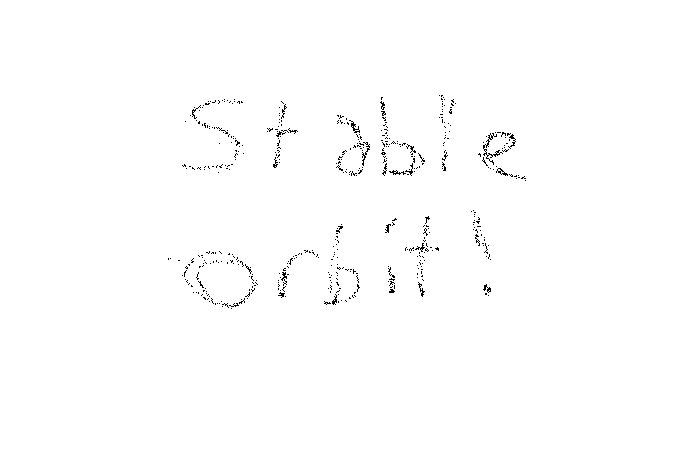
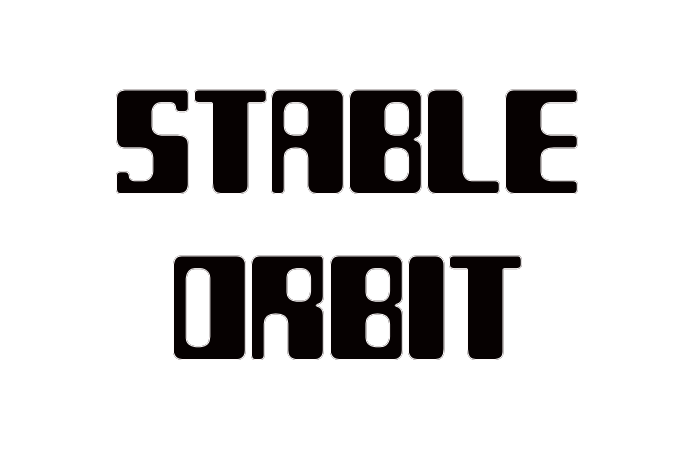
add intro, camera fix

Changed region(s): [[0.15, 0.1867, 0.84, 0.4356], [0.24, 0.5289, 0.75, 0.8089]]

diff --git a/src/screens/GameScreen.js b/src/screens/GameScreen.js
@@ -3,7 +3,6 @@ const { Camera, Container, math, Sprite, Sound, Texture } = pop;
 import Matter from "matter-js";
 // Bug in matter-attractors...
 import MatterAttractors from "../../node_modules/matter-attractors/index";
-import Level from "../Level";
 import Sun from "../entities/Sun";
 import Projectile from "../entities/Projectile";
 import Asteroid from "../entities/Asteroid";
@@ -11,7 +10,8 @@ import Asteroid from "../entities/Asteroid";
 const textures = {
   border: new Texture("res/images/border.png"),
   stable: new Texture("res/images/stable.png"),
-  fail: new Texture("res/images/fail.png")
+  fail: new Texture("res/images/fail.png"),
+  intro: new Texture("res/images/intro.png"),
 };
 
 const sounds = {
@@ -41,8 +41,6 @@ class GameScreen extends Container {
     if (!sounds.theme.playing) {
       sounds.theme.play();
     }
-
-    //this.level = new Level(game);
 
     const { Engine, Render, World } = Matter;
     const engine = (this.engine = Engine.create());
@@ -79,6 +77,9 @@ class GameScreen extends Container {
       { w, h },
       { w: w * 5, h: h * 5 }
     ));
+    camera.pos.x = p1.pos.x- w / 2 - 180;
+    camera.pos.y = p1.pos.y;
+
     this.add(camera);
     camera.scale = { x: 1.5, y: 1.5 };
     //camera.add(this.level);
@@ -100,8 +101,8 @@ class GameScreen extends Container {
       const { pairs } = event;
       for (let i = 0; i < pairs.length; i++) {
         const { bodyA, bodyB } = pairs[i];
-        const a = bodyA._ent && bodyA._ent.type;// === "PROJECTILE";
-        const b = bodyB._ent && bodyB._ent.type;// === "PROJECTILE";
+        const a = bodyA._ent && bodyA._ent.type;
+        const b = bodyB._ent && bodyB._ent.type;
         if (a === "PROJECTILE" || b === "PROJECTILE") {
           if (!sounds.crash.playing) {
             sounds.crash.play();
@@ -113,6 +114,13 @@ class GameScreen extends Container {
         }
       }
     });
+
+    this.intro = this.add(new Sprite(textures.intro));
+    this.intro.visible = false;
+    if (game.first) {
+      this.intro.visible = true;
+      game.first = false;
+    }
   }
 
   die() {
@@ -126,7 +134,7 @@ class GameScreen extends Container {
       }
 
       this.state = "DYING";
-      this.p1.started = false;
+      this.p1.deaded = true; // what
       this.stateTime = 0;
       this.failSprite = this.add(new Sprite(textures.fail));
       if (this.winSprite) {
@@ -218,6 +226,10 @@ class GameScreen extends Container {
       }
     }
 
+    if (this.p1.started) {
+      this.intro.visible = false;
+    }
+
     this.lastBeep -= dt;
     if (this.lastBeep < 0) {
       sounds.beep.play();
@@ -226,7 +238,7 @@ class GameScreen extends Container {
 
     // Check for off the page - dead in space
     const dist = Vector.sub(this.sun.body.position, this.p1.body.position);
-    if (Vector.magnitude(dist) > 350) {
+    if (Vector.magnitude(dist) > 375) {
       this.die();
     }
 

diff --git a/src/entities/Sun.js b/src/entities/Sun.js
@@ -20,19 +20,13 @@ class Sun extends Sprite {
       isStatic: true,
       mass: 100,
       plugin: {
-        attractors: [
-          this.gravity
-          /*(bodyA, bodyB) => ({
-            x: (bodyA.position.x - bodyB.position.x) * 1e-5,
-            y: (bodyA.position.y - bodyB.position.y) * 1e-5,
-          })*/
-        ]
+        attractors: [this.gravity]
       }
     });
   }
 
-  gravity (bodyA, bodyB) {
-    if (bodyB._ent && bodyB._ent.started === false) {
+  gravity(bodyA, bodyB) {
+    if (bodyB._ent && (bodyB._ent.started === false || bodyB._ent.deaded)) {
       return;
     }
 
@@ -40,7 +34,9 @@ class Sun extends Sprite {
     const bToA = Matter.Vector.sub(bodyB.position, bodyA.position),
       distanceSq = Matter.Vector.magnitudeSquared(bToA) || 0.0001,
       normal = Matter.Vector.normalise(bToA),
-      magnitude = -MatterAttractors.Attractors.gravityConstant * (bodyA.mass * bodyB.mass / distanceSq),
+      magnitude =
+        -MatterAttractors.Attractors.gravityConstant *
+        (bodyA.mass * bodyB.mass / distanceSq),
       force = Matter.Vector.mult(normal, magnitude);
 
     // to apply forces to both bodies

diff --git a/src/main.js b/src/main.js
@@ -7,6 +7,7 @@ const mouse = new MouseControls(game.renderer.view);
 const keys = new KeyControls();
 
 game.theme = new Sound("./res/sounds/theme.mp3", {volume: 0.45, loop: true});
+game.first = true;
 
 const start = () => {
   keys.reset();
